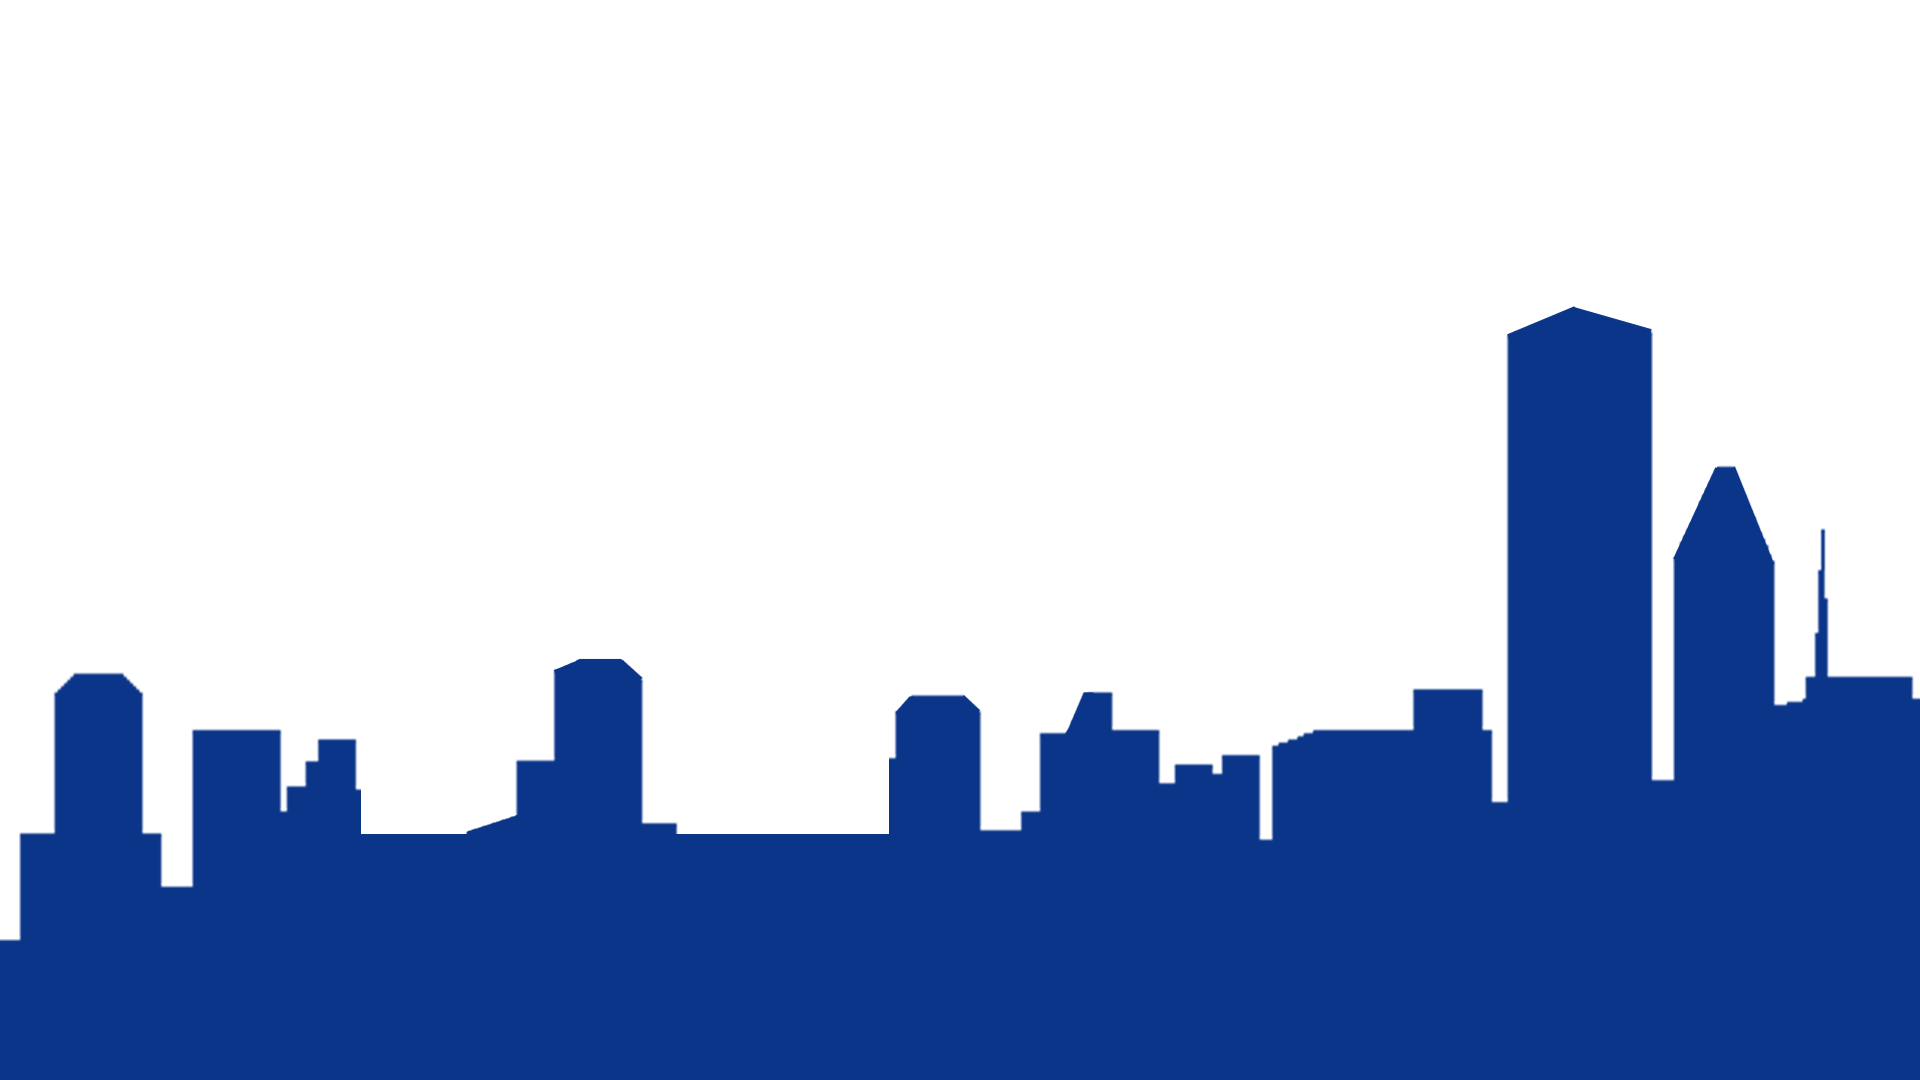
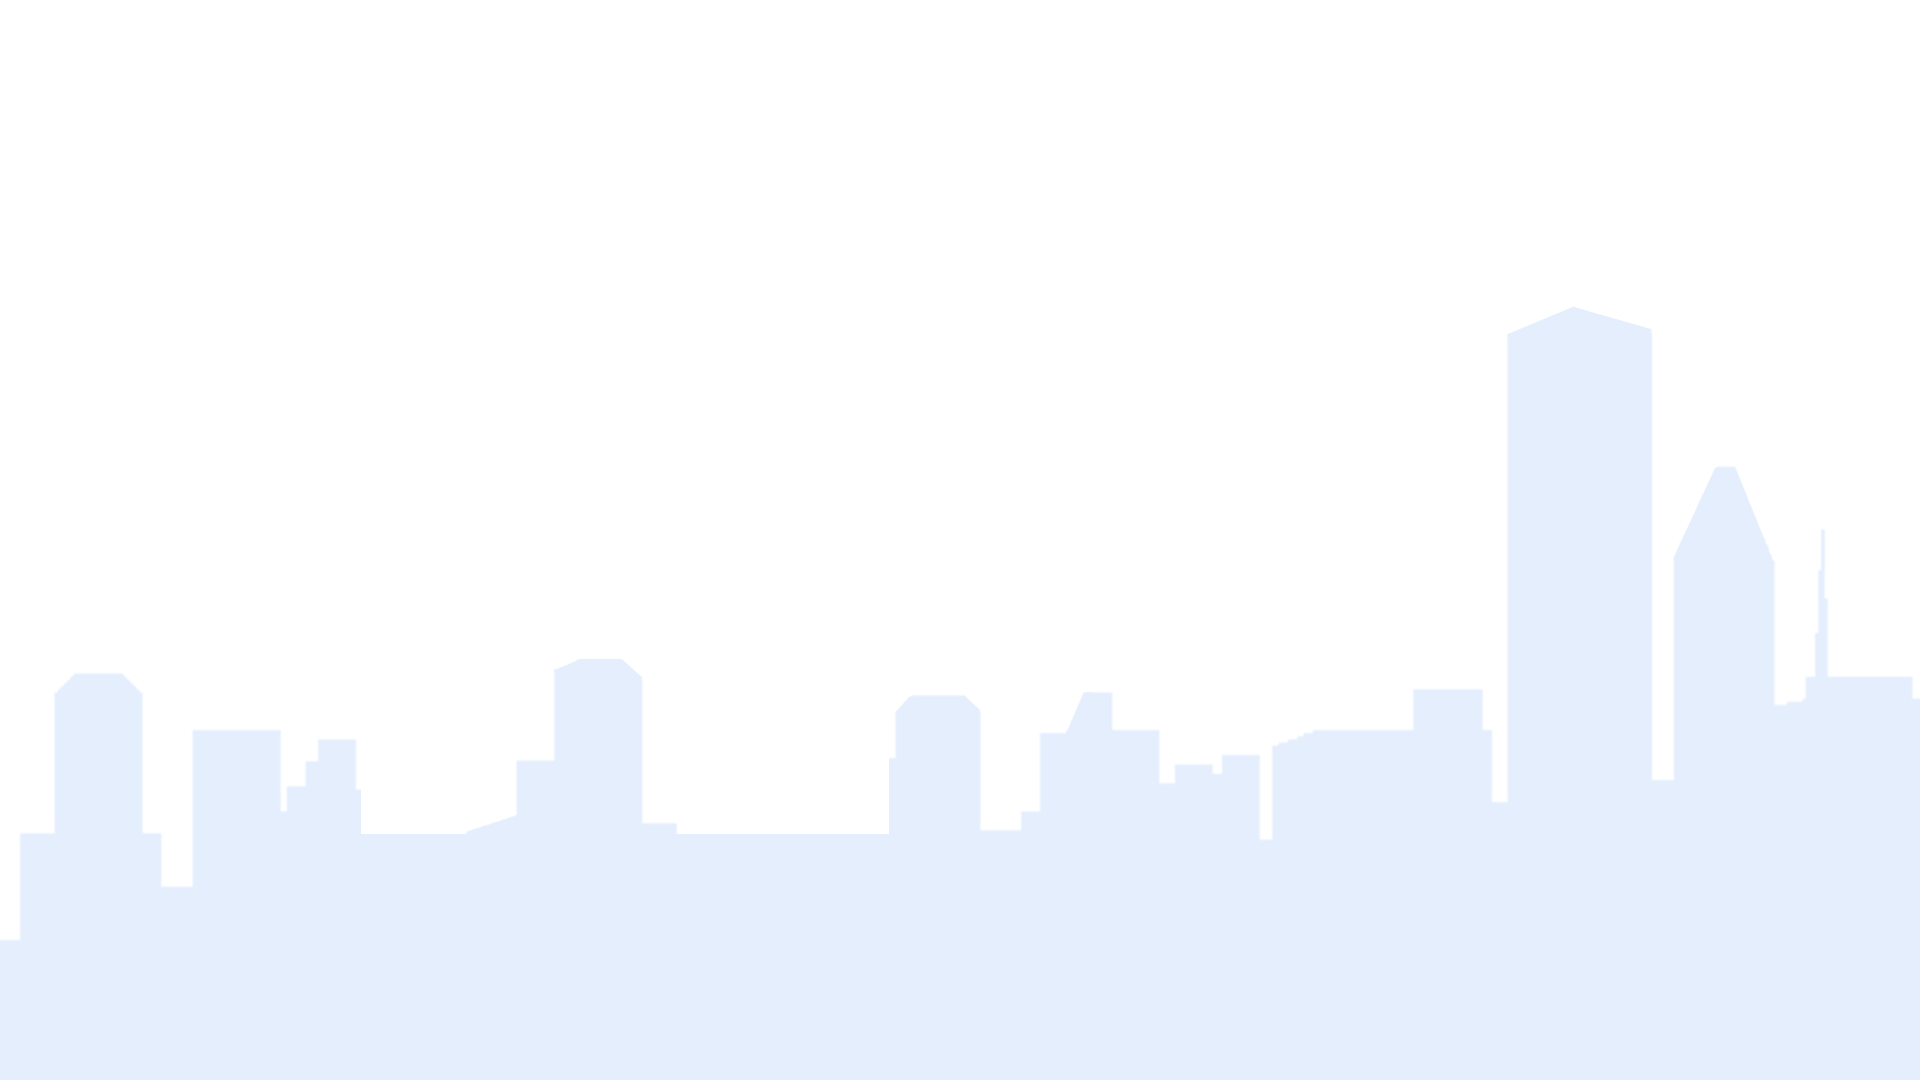
updated it all

diff --git a/css/index.css b/css/index.css
@@ -3,14 +3,7 @@ header {
   padding: 0;
   width: 100%;
   height: 100vh;
-  background: #0a7fe9;
-  /* background: -webkit-linear-gradient(to right, #1157DF, #03A9F4);
-  background: linear-gradient(to right, #1157DF, #03A9F4);
-  background: -webkit-linear-gradient(to right, #038ecd, #0e49bb);
-  background: linear-gradient(to right, #038ecd, #0e49bb); */
-
-  background: -webkit-linear-gradient(to right, #03A9F4, #1157DF);
-  background: linear-gradient(to right, #03A9F4, #1157DF);
+  background-color: #f6f9fe;
 }
 
 .frontrow {
@@ -63,66 +56,115 @@ header {
 
 .center {
   position: absolute;
-  z-index: 4;
+  z-index: 5;
+  width: 380px;
   left: 50%;
-  top: 30%;
-  margin-left: -180px;
-  margin-top: -160px;
+  margin-left: -193px;
+  border: solid #5299D3 3px;
+  height: 486px;
+  top: 50vh;
+  margin-top: -243px;
+  border-radius: 10px;
+  background-color: rgba(255, 255, 255, 0.1);
+  text-align: center;
 }
 
 .center img {
-  width: 360px;
+  width: 90%;
   height: auto;
-  margin-top: 50px;
-  margin-bottom: 30px;
+  margin: 0;
+  margin-left: 5%;
+  margin-right: 5%;
+  margin-top: 30px;
 }
 
-/*#0774F0*/
-
-.center .encase {
-  background-color: white;
-  border-radius: 23px;
-  box-shadow: 0 5px 15px 0 rgba(0,0,0,0.25);
-  width: 330px;
-  margin-left: auto;
-  margin-right: auto;
-  height: 44px;
-  cursor: default;
-  outline: none;
+.center h2 {
+  text-transform: uppercase;
+  font-size: 1.3em;
+  text-align: center;
+  padding: 0 20px 0 20px;
+  color: #5299D3;
+  font-weight: 700;
+  letter-spacing: 1px;
+  margin: 0;
+  margin-top: 12px;
 }
 
 .center .date {
-  display: inline-block;
-  color: rgba(0, 0, 0, 0.75);
-  font-weight: 400;
   margin: 0;
-  font-size: 1.05em;
-  margin: 12px 0px 12px 17px;
-  text-align: left;
-}
-
-.encase button {
-  float: right;
-  margin: 0;
-  font-size: .95em;
-  color: rgba(255, 255, 255, 0.85);
-  text-transform: uppercase;
   font-weight: 500;
-  letter-spacing: 1.5px;
-  border: none;
-  background-color: black;
-  padding: 13px 20px 13px 20px;
-  border-radius: 23px;
-  box-shadow: 0 0 10px 0 rgba(0,0,0,0.2);
-  cursor: pointer;
-  transition: all .3s;
-  position: absolute;
-  width: 170px;
-  right: 15px;
-  outline: none;
+  text-align: center;
+  text-transform: uppercase;
+  margin-top: 6px;
+  color: #5299D3;
+  opacity: 0.85;
 }
 
-.topbutton:hover {
-  color: white;
-  width: 330px;
+.center sup {
+  vertical-align: text-top;
+  font-size: .85em;
+}
+
+.signup {
+  border: solid #5299D3 3px;
+  margin-top: 24px;
+  width: 320px;
+  height: 40px;
+  border-radius: 23px;
+  margin-left: auto;
+  margin-right: auto;
+}
+
+.signup input {
+  background-color: transparent;
+  border: none;
+  font-size: .95em;
+  outline: none;
+  height: 38px;
+  color: #5299D3;
+  width: 190px;
+  position: relative;
+  left: 5px;
+}
+
+.signup a {
+
+}
+
+.signup button {
+  cursor: pointer;
+  background-color: transparent;
+  border: solid #5299D3 2px;
+  height: 36px;
+  width: 110px;
+  font-size: .8em;
+  font-weight: 500;
+  border-radius: 19px;
+  color: #5299D3;
+  text-transform: uppercase;
+  position: relative;
+  top: -2px;
+  right: -4px;
+  transition: all .3s;
+}
+
+.signup button:hover {
+  color: #f6f9fe;
+  background-color: #5299D3;
+}
+
+::-webkit-input-placeholder {
+  color: #5299D3;
+}
+
+::-moz-placeholder {
+  color: #5299D3;
+}
+
+:-ms-input-placeholder {
+  color: #5299D3;
+}
+
+:-moz-placeholder {
+  color: #5299D3;
 }

diff --git a/index.html b/index.html
@@ -43,12 +43,15 @@
     <div class="frontrow rellax" data-rellax-speed="0"></div>
 
     <div class="center">
-      <img src="img/logo.svg" alt="Hack Chicago">
-      <a><div class="encase">
-        <p class="date">July 21st to 22nd</p>
-        <button class="topbutton">Coming Soon</button>
-      </div></a>
+      <img src="img/bluelogo.svg" alt="Hack Chicago">
+        <h2>The Midwest's Largest High School Hackathon</h2>
+          <p class="date">June 22<sup>nd</sup> to 23<sup>rd</sup></p>
+          <div class="signup">
+            <input type="email" placeholder="Enter email for Updates">
+            <a><button>Sign-Up</button></a>
+          </div>
     </div>
+
   </header>
 
   <script src="js/rellax.min.js"></script>

diff --git a/css/style.css b/css/style.css
@@ -2,4 +2,5 @@ body {
   margin: 0;
   padding: 0;
   font-family: 'Roboto', sans-serif;
+  background-color: white;
 }
